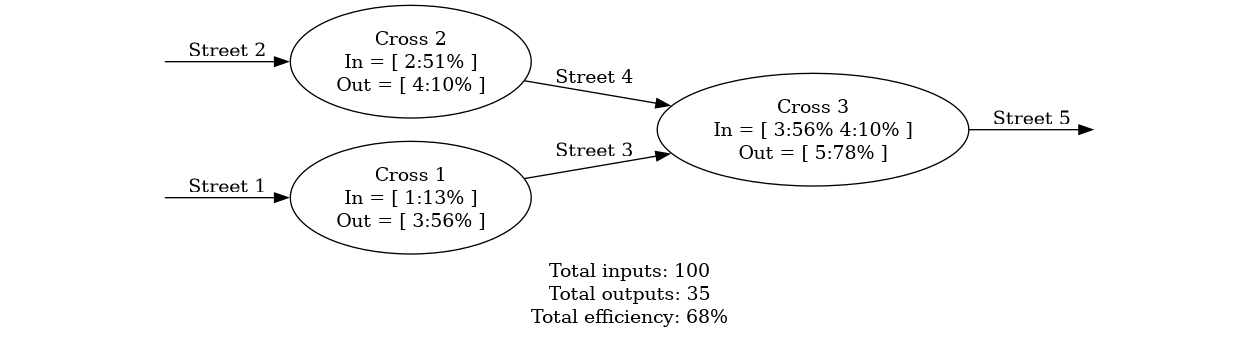
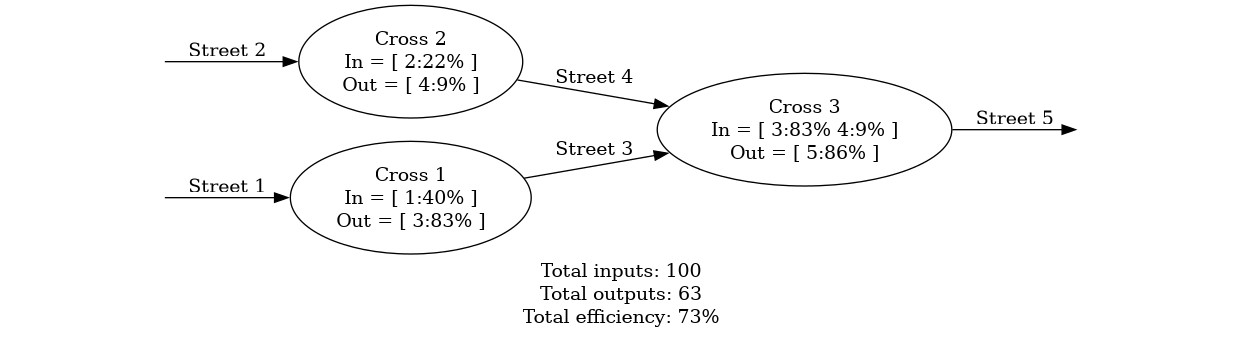
Updating console messages

diff --git a/ga/util/solution_generator.py b/ga/util/solution_generator.py
@@ -29,26 +29,49 @@ class SolutionGenerator:
         self.console = console
 
     def start(self):
+        self.clear_console()
         self.population = self.population_generator.generate_population(self.population_size)
         self.generation += 1
         self.work_generation(self.population)
         while self.objetive_function() is False:
             self.generation += 1
             self.work_generation(self.generate_population_by_roulette())
+        message = f"Best result on all generations:"
+        message += f" Total inputs: {self.best_individual.total_inputs}"
+        message += f" Total outputs: {self.best_individual.total_outputs}"
+        message += f" Total efficiency: {self.best_individual.aptitude}%"
+        self.write_console_info(message)
         Grapher.graph(self.cross_streets_map, self.street_map, self.best_individual)
 
     def write_console_info(self, info: str):
         self.console.config(state=tk.NORMAL)
         self.console.insert(tk.END, info + "\n")
+        self.console.see(tk.END)
+        self.console.config(state=tk.DISABLED)
+
+    def clear_console(self):
+        self.console.config(state=tk.NORMAL)
+        self.console.delete("1.0", tk.END)
         self.console.config(state=tk.DISABLED)
 
     def objetive_function(self) -> bool:
+        best_individual_generation: Individual | None = None
         for individual in self.population:
             if self.best_individual is None:
                 self.best_individual = individual
             else:
                 if individual.aptitude > self.best_individual.aptitude:
                     self.best_individual = individual
+            if best_individual_generation is None:
+                best_individual_generation = individual
+            else:
+                if individual.aptitude > best_individual_generation.aptitude:
+                    best_individual_generation = individual
+        message = f"Best result on generation {self.generation} :"
+        message += f" Total inputs: {best_individual_generation.total_inputs}"
+        message += f" Total outputs: {best_individual_generation.total_outputs}"
+        message += f" Total efficiency: {best_individual_generation.aptitude}%"
+        self.write_console_info(message)
         if self.termination_criteria == TerminationCriteria.GENERATION_NUMBER:
             return self.termination_value == self.generation
         elif self.termination_criteria == TerminationCriteria.EFFICIENCY_PERCENTAGE:

diff --git a/main_gui.py b/main_gui.py
@@ -20,7 +20,7 @@ class StreetSchemaEditor:
 
         self.window = window
         self.window.title("Add street schema")
-        self.window.geometry("1500x830")
+        self.window.geometry("1500x845")
 
         self.ADD_CROSS_STREETS = False
         self.ADD_STREET = False
@@ -86,7 +86,8 @@ class StreetSchemaEditor:
         self.console_frame.grid_rowconfigure(0, weight=1)
         self.console_frame.grid_columnconfigure(0, weight=1)
 
-        self.console = tk.Text(self.console_frame, wrap="word", state=tk.DISABLED, width=212, height=10, background="gray")
+        self.console = tk.Text(self.console_frame, wrap="word", state=tk.DISABLED, width=165, height=8,
+                               background="gray", font=1)
         self.console.grid(row=0, column=0, columnspan=10)
 
         scroll_y = tk.Scrollbar(self.console_frame, orient=tk.VERTICAL, command=self.console.yview)
